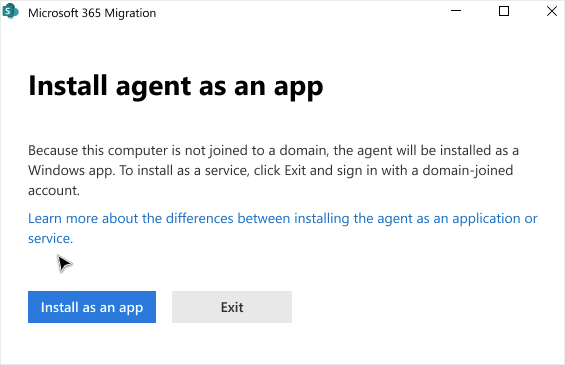
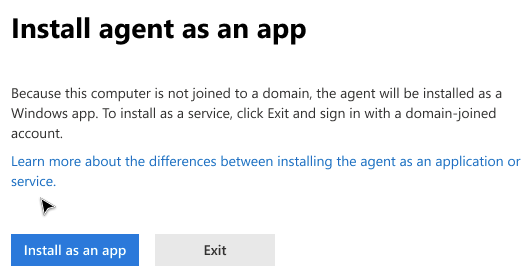
edit
edit

diff --git a/migration/mm-setup-clients.md b/migration/mm-setup-clients.md
@@ -83,6 +83,16 @@ To install an agent to a different Geo location:
 
 The country or regional GEO code can be found here [Microsoft 365 Multi-Geo availability](https://docs.microsoft.com/microsoft-365/enterprise/microsoft-365-multi-geo)
 
+
+## Installing the agent as an application or service
+
+If the system detects you are not joined to a domain when installing the agent, you can install the agent as a Windows app.  If you still wish to install it as a service, you can exit and sign in with a domain-joined account.
+
+![Install agent as an app](media/mm-agent-app.png)
+
+
+![Install as an app settings](media/mm-agent-app-settings.png)
+
 >[!Important]
 > Passwords are not stored in the installer.
 
